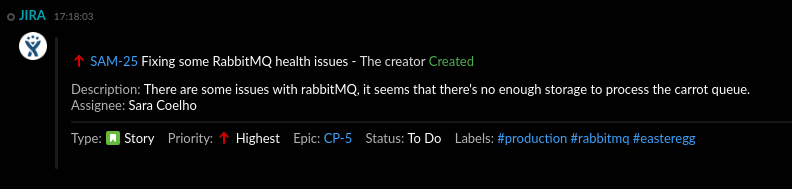
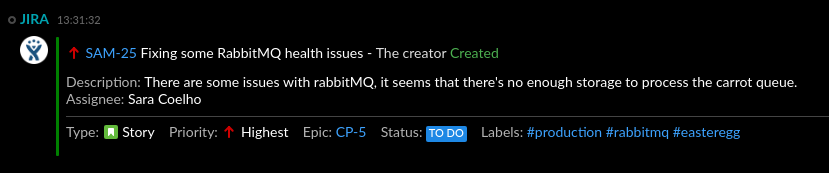
APP-925 - Updated README to display token colors

Changed region(s): [[0.0, 0.1734, 1.0, 0.896], [0.0, 0.0578, 0.1212, 0.1445]]

diff --git a/README.md b/README.md
@@ -79,7 +79,9 @@ This is the messageML v2 that the JIRA integration generates after parsing, whic
                         </#if>
 
                         <span class="tempo-text-color--secondary">&#160;&#160;&#160;Status:</span>
-                        <span class="tempo-text-color--normal">${entity['jiraIssue'].issue.status?capitalize}</span>
+                        <span class="tempo-bg-color--${entity['jiraIssue'].tokenColor} tempo-text-color--white tempo-token">
+                            ${entity['jiraIssue'].issue.status?upper_case}
+                        </span>
 
 
                         <#if (entity['jiraIssue'].issue.labels)??>
@@ -94,7 +96,6 @@ This is the messageML v2 that the JIRA integration generates after parsing, whic
         </card>
     </div>
 </messageML>
-
 ```
 ###### Entity JSON
 This is the EntityJSON that the JIRA integration generates after parsing, which defines the content of the card that the front-end will use in combination with the MessageML v2 to render the card:
@@ -104,6 +105,7 @@ This is the EntityJSON that the JIRA integration generates after parsing, which 
     "type": "com.symphony.integration.jira.event.v2.state",
     "version": "1.0",
     "accent": "green",
+    "tokenColor": "blue",
     "icon": {
       "type": "com.symphony.integration.icon",
       "version": "1.0",
